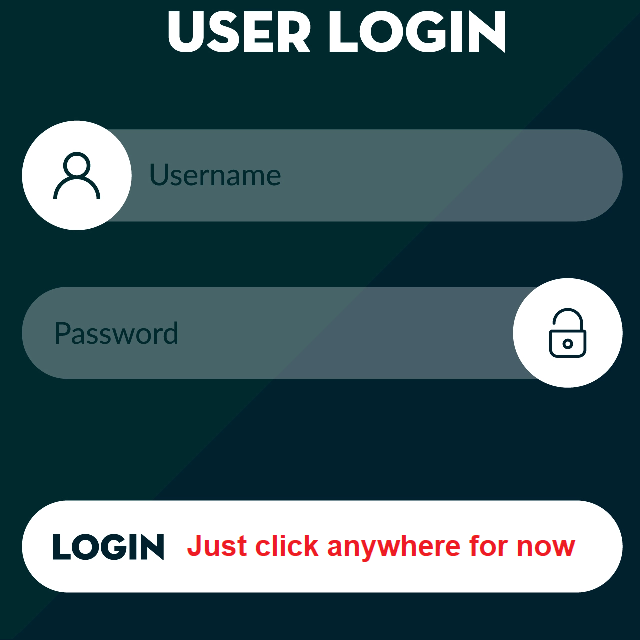
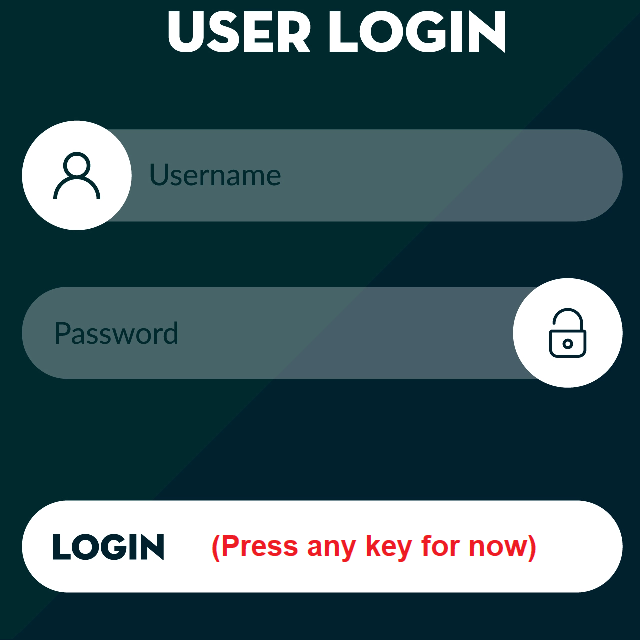
fixed login image and spaces

Changed region(s): [[0.2812, 0.8125, 0.9062, 0.875]]

diff --git a/js/map2.js b/js/map2.js
@@ -75,7 +75,7 @@ export default class SecondScene extends Phaser.Scene {
     
     update(){
         this.player.update();
-        //Can walk back and forth between scenes now.
+
         if (this.player.x > 400) {
             this.player.setTint(0xff0000);
         }
